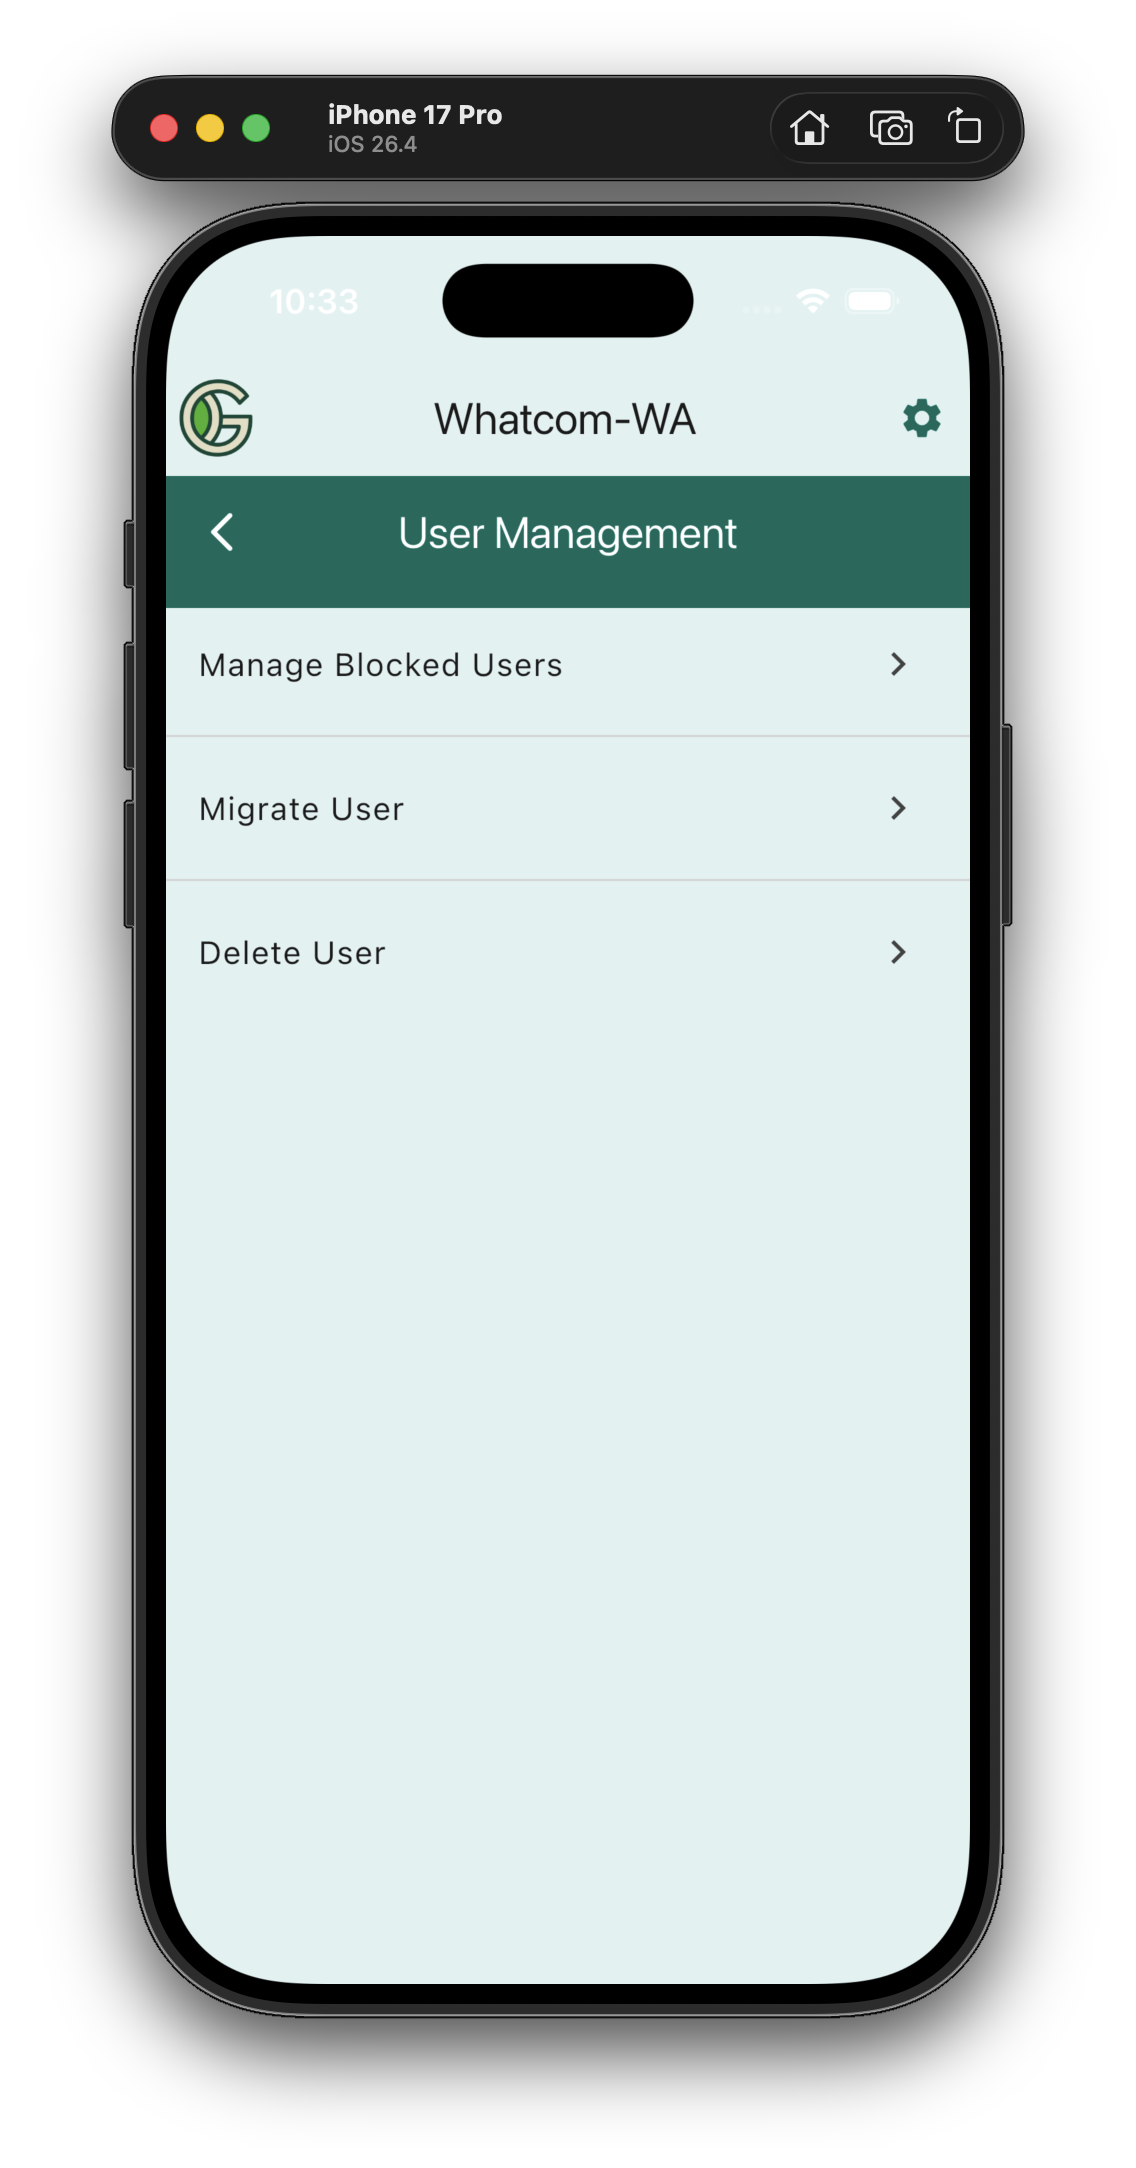
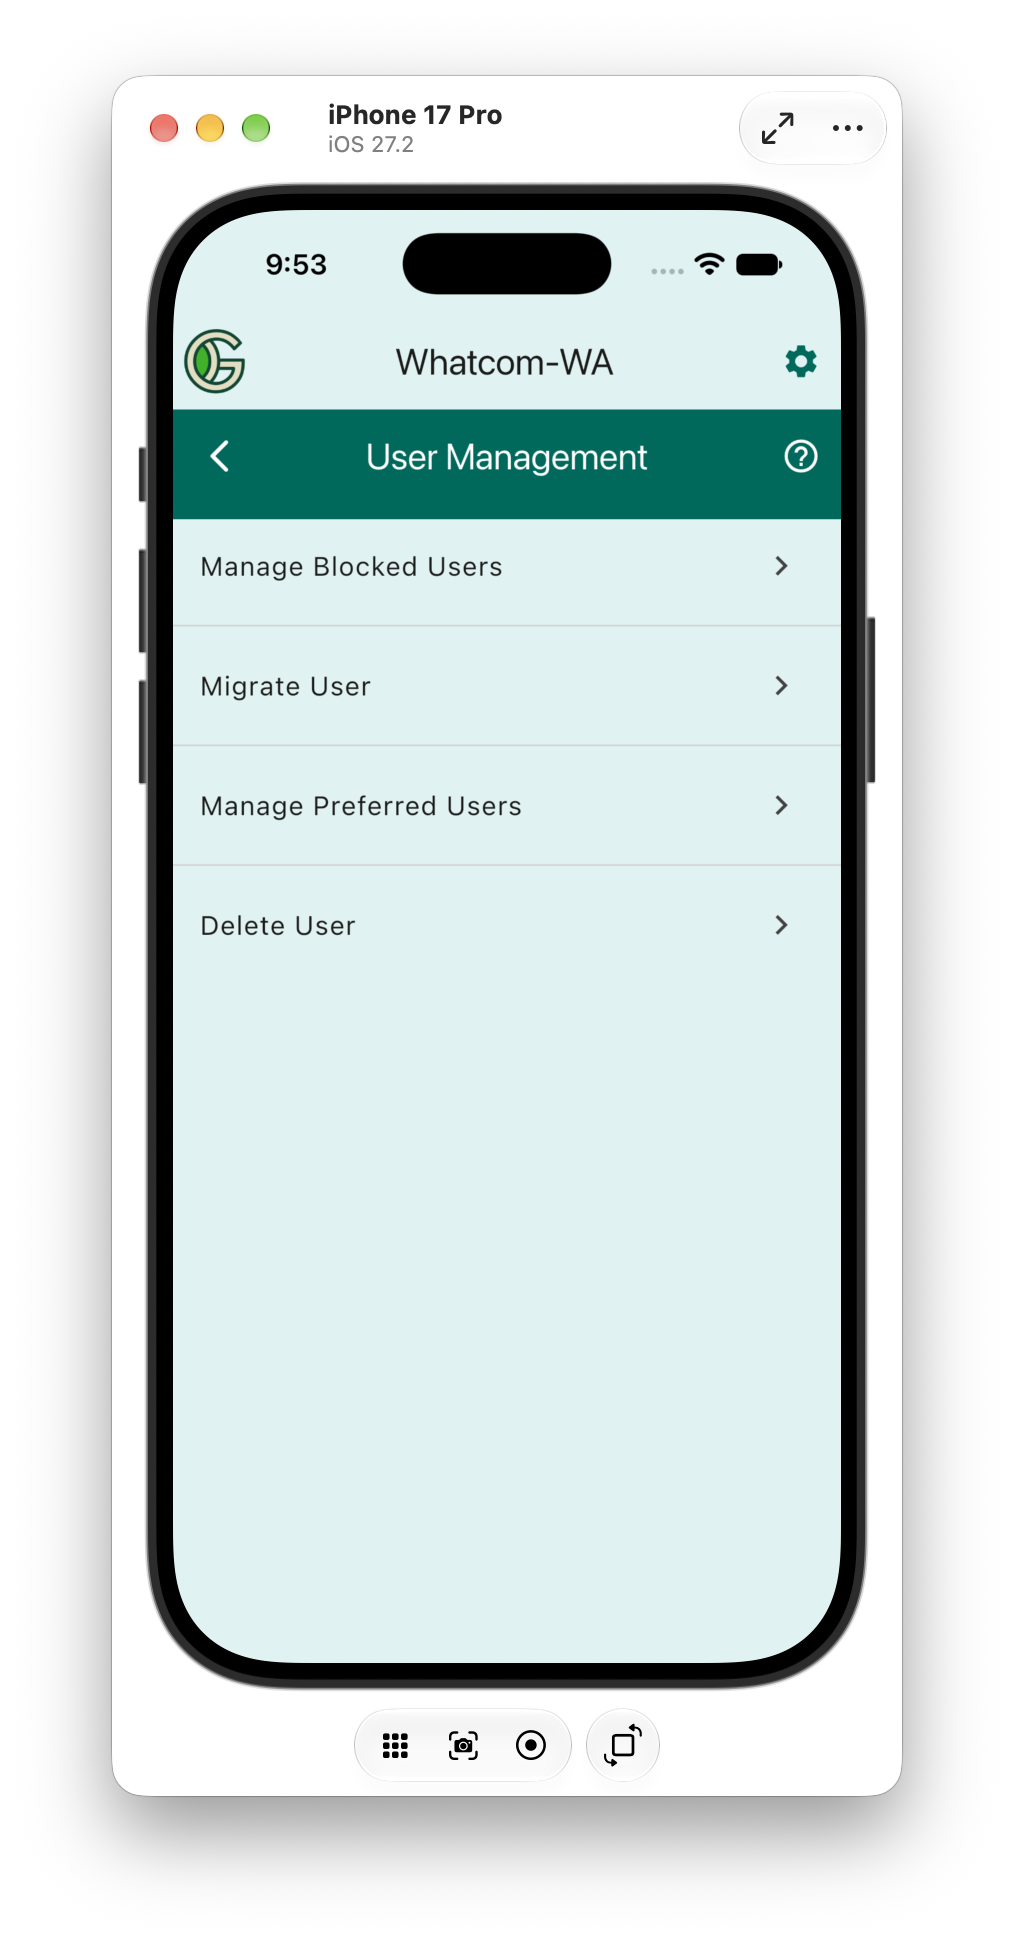
preferred users
Took 32 minutes

Changed region(s): [[0.0917, 0.0309, 0.9172, 0.9568]]

diff --git a/sidebars.js b/sidebars.js
@@ -532,6 +532,7 @@ const sidebars = {
               'admin-guide/feature-management/users/manage',
               'admin-guide/feature-management/users/blocked',
               'admin-guide/feature-management/users/migrate',
+              'admin-guide/feature-management/users/preferred',
               'admin-guide/feature-management/users/delete',
             ]
           },

diff --git a/docs/admin-guide/feature-management/users/preferred.md b/docs/admin-guide/feature-management/users/preferred.md
@@ -1,0 +1,28 @@
+---
+hide_table_of_contents: true
+title: Preferred Users
+---
+
+# Preferred Users
+
+<img width="300" src="/img/admin-guide/feature-management/users/preferred.png"/>
+
+The Manage Preferred User page allows you to manage preferred users. Preferred users do not need to subscribe to GeoGardenClub. It uses the standard Management Screen layout with an additional list of the preferred users who haven't registered with GeoGardenClub. The above screenshot shows preferred@geogardenclub.com is a preferred user who hasn't registered with GeoGardenClub. 
+
+**Note** Preferred users are not [Users](/docs/developer-guide/data-model/document-data-model#user) of GeoGardenClub. Users in GeoGardenClub have an associated Gardener record. We just have a `Role` that indicates the user is preferred. Creating a new Preferred User does not create a GeoGardenClub [User](http://localhost:3000/docs/developer-guide/data-model/document-data-model#user) nor [Gardener](http://localhost:3000/docs/developer-guide/data-model/document-data-model#gardener).
+
+To create a new preferred user, click the `+ Preferred User` button. This will open the create preferred user screen.
+
+<img width="300" src="/img/admin-guide/feature-management/users/create-preferred.png"/>
+
+Enter the user's email address in the Preferred User field. Then supply an optional Expiration Date. The expiration date is just a reminder for you to know when to delete the preferred user. GeoGardenClub does not automatically delete expired preferred users. Click the `Submit` button to create the preferred user. 
+
+To manage existing preferred users use the `Preferred Users` dropdown and select the user. Then press the `Update` button to get to the Update Preferred User Screen.
+
+<img width="300" src="/img/admin-guide/feature-management/users/update-preferred.png"/>
+
+The Update Preferred User Screen allows you to change the user's expiration date. If you want to delete the preferred user click the Delete icon in the menu bar. This will take you to the Delete Preferred User Screen.
+
+<img width="300" src="/img/admin-guide/feature-management/users/delete-preferred.png"/>
+
+You can also get to the Delete Preferred User Screen by clicking the Delete icon on the list of preferred users who haven't registered with GeoGardenClub.

diff --git a/docs/admin-guide/feature-management/users/manage.md b/docs/admin-guide/feature-management/users/manage.md
@@ -11,4 +11,5 @@ The User Management page allows you to:
 
 * Manage blocked users.
 * Migrate users between chapters.
+* Manage preferred users.
 * Delete a user.
